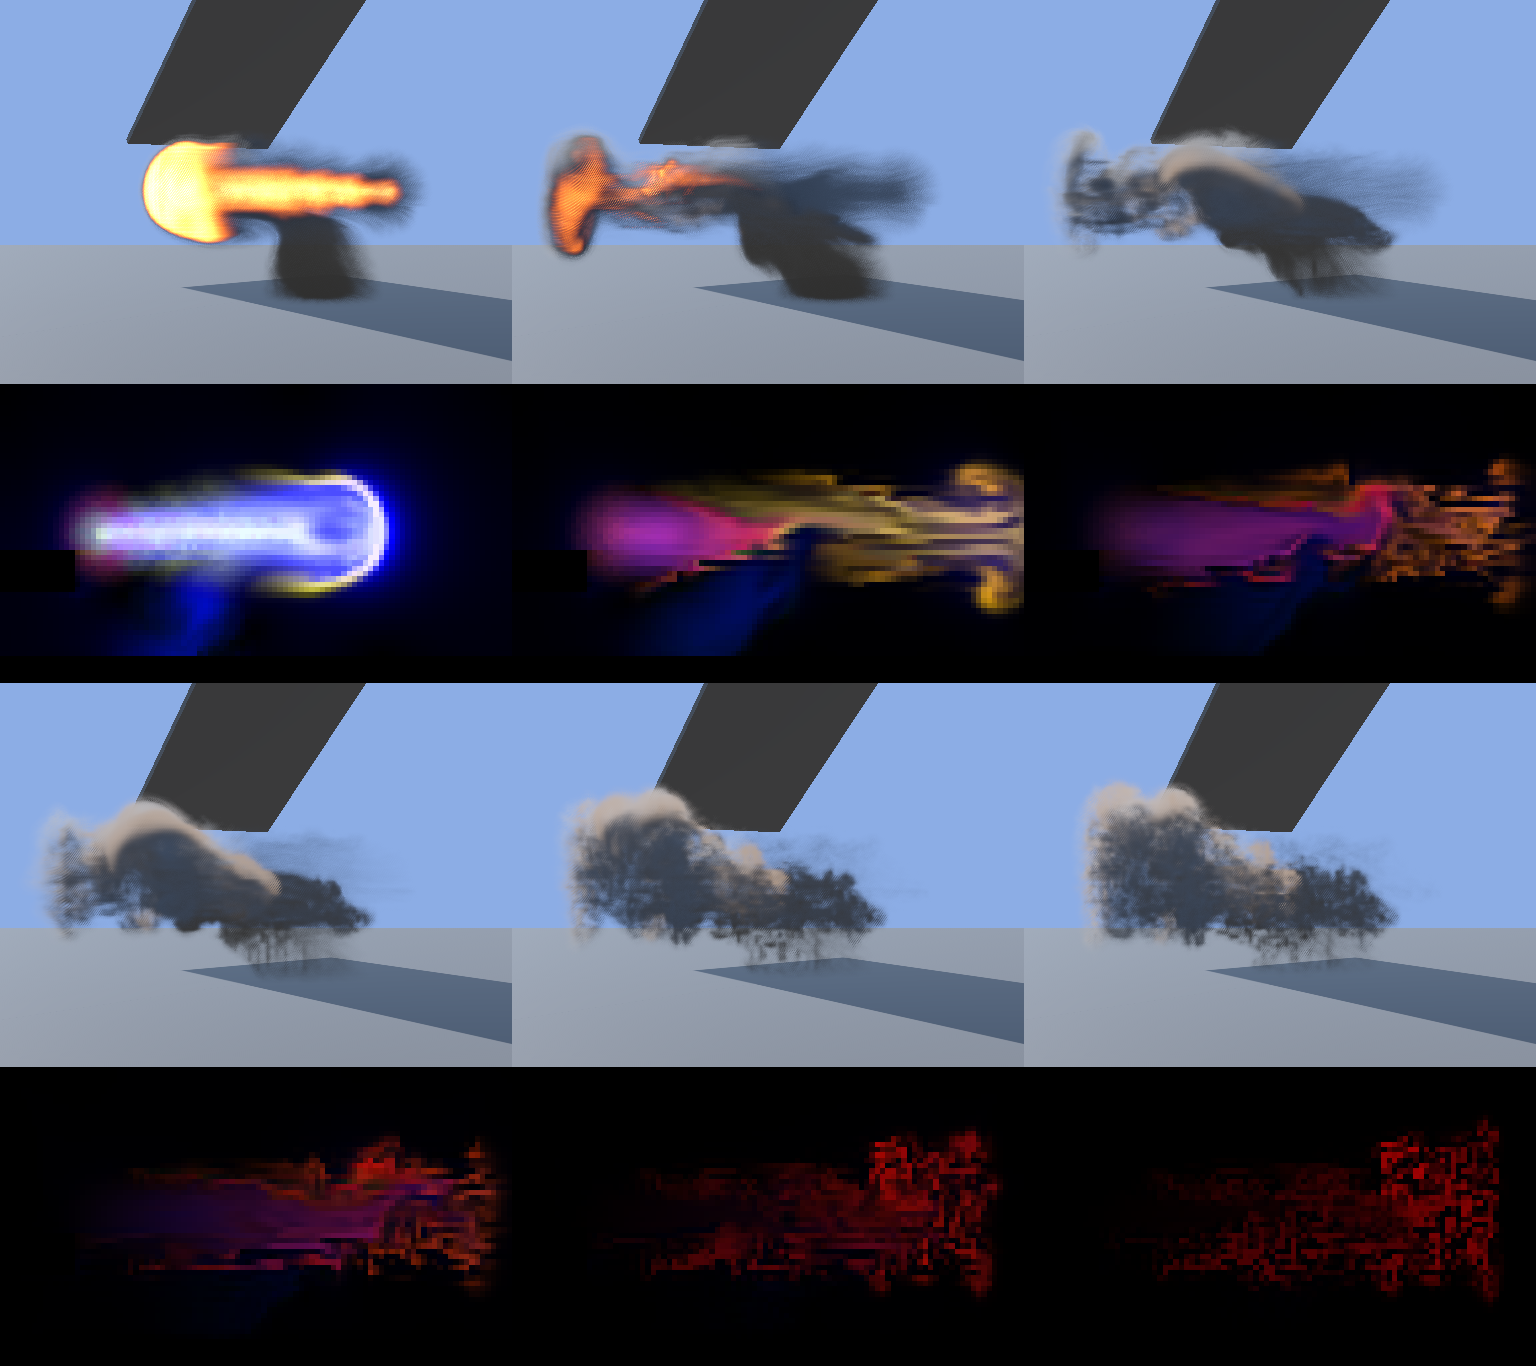
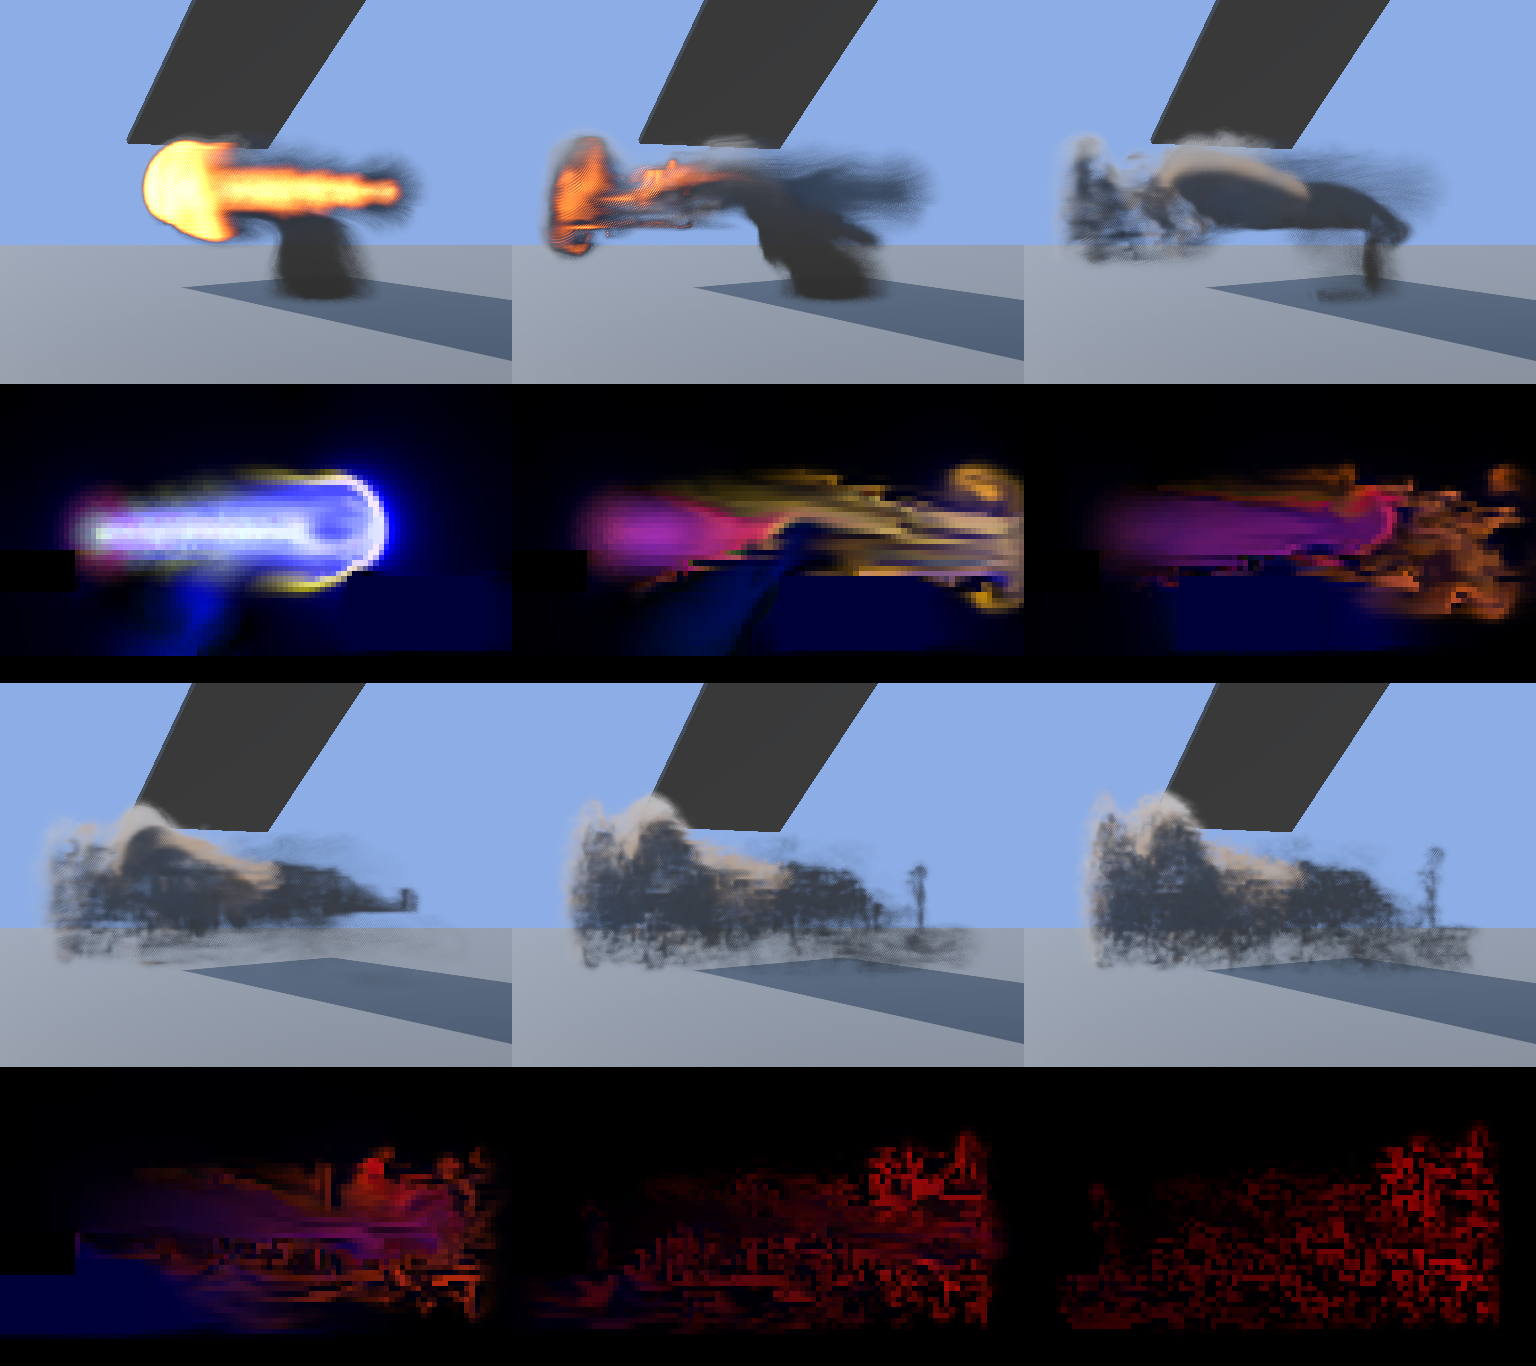
Dev: moving vehicles push the fluid smoke (solid velocity in the solver; wind-relative); push test

diff --git a/Armor Mod/Fluid/FluidSmoke.cs b/Armor Mod/Fluid/FluidSmoke.cs
@@ -78,6 +78,7 @@ namespace ArmorFragments
             public readonly List<Shot> shots = new List<Shot>();
             public PartScript cannonPart;    // its own colliders do not block its smoke
             public bool hasGround;
+            public Vector3 gridVelocity;     // the wind that carries the box (world m/s): things that stand still move against it
             public Vector3 groundPoint, groundNormal;
         }
 
@@ -257,6 +258,7 @@ namespace ArmorFragments
                         // Gravity in the box's axes; the blast slows fast, then the smoke drifts.
                         c.sim.Params.buoyDir = Quaternion.Inverse(c.rotation) * Vector3.up;
                         c.sim.Params.drag = c.age < 0.3f ? 7f : 1.5f;
+                        if (wind != null) c.gridVelocity = wind.QueryWindVelocity(c.origin + c.rotation * (c.extent * 0.5f));
                         c.sim.SetObstacles(Obstacles(c));
 
                         bool violent = RecentShot(c);
@@ -273,8 +275,7 @@ namespace ArmorFragments
                         // The wind carries the whole box.
                         if (wind != null)
                         {
-                            Vector3 center = c.origin + c.rotation * (c.extent * 0.5f);
-                            c.origin += wind.QueryWindVelocity(center) * frame;
+                            c.origin += c.gridVelocity * frame;
                             Place(c);
                         }
                     }
@@ -445,6 +446,7 @@ namespace ArmorFragments
             ShapeBuffer.Clear();
             Matrix4x4 gridToWorld = Matrix4x4.TRS(c.origin, c.rotation, Vector3.one);
             Vector3 center = c.origin + c.rotation * (c.extent * 0.5f);
+            Quaternion toGrid = Quaternion.Inverse(c.rotation);
 
             if (c.hasGround)
             {
@@ -452,7 +454,8 @@ namespace ArmorFragments
                 if (height < c.extent.magnitude * 0.5f)
                 {
                     Matrix4x4 plane = Matrix4x4.TRS(c.groundPoint, Quaternion.FromToRotation(Vector3.up, c.groundNormal), Vector3.one);
-                    ShapeBuffer.Add(new FluidSim.Shape { toLocal = plane.inverse * gridToWorld, half = Vector3.one, kind = 2 });
+                    // The ground stands still in the world, so it slides under the box at the wind's speed.
+                    ShapeBuffer.Add(FluidSim.Shape.Make(plane.inverse * gridToWorld, Vector3.one, 2, toGrid * (-c.gridVelocity), Vector3.zero, Vector3.zero));
                 }
             }
 
@@ -465,14 +468,15 @@ namespace ArmorFragments
                 if (part == null || part == c.cannonPart) continue;     // only vehicles; the cannon that fired does not block itself
                 if (col.GetComponentInParent<CannonProjectileScript>() != null) continue;
                 FluidSim.Shape shape;
-                if (ShapeOf(col, gridToWorld, out shape)) ShapeBuffer.Add(shape);
+                if (ShapeOf(col, part, c, gridToWorld, toGrid, out shape)) ShapeBuffer.Add(shape);
             }
             return ShapeBuffer;
         }
 
-        private static bool ShapeOf(Collider col, Matrix4x4 gridToWorld, out FluidSim.Shape shape)
+        private static bool ShapeOf(Collider col, PartScript part, Cloud c, Matrix4x4 gridToWorld, Quaternion toGrid, out FluidSim.Shape shape)
         {
             shape = new FluidSim.Shape();
+            Vector3 half; int kind;
             Matrix4x4 ltw = col.transform.localToWorldMatrix;
             Matrix4x4 m;
             BoxCollider box = col as BoxCollider;
@@ -482,33 +486,44 @@ namespace ArmorFragments
             if (box != null)
             {
                 m = ltw * Matrix4x4.TRS(box.center, Quaternion.identity, Vector3.one);
-                shape.half = box.size * 0.5f; shape.kind = 0;
+                half = box.size * 0.5f; kind = 0;
             }
             else if (sphere != null)
             {
                 m = ltw * Matrix4x4.TRS(sphere.center, Quaternion.identity, Vector3.one);
-                shape.half = Vector3.one * sphere.radius; shape.kind = 1;
+                half = Vector3.one * sphere.radius; kind = 1;
             }
             else if (capsule != null)
             {
                 m = ltw * Matrix4x4.TRS(capsule.center, Quaternion.identity, Vector3.one);
                 float r = capsule.radius, h = Mathf.Max(capsule.height * 0.5f, r);
-                shape.half = capsule.direction == 0 ? new Vector3(h, r, r) : (capsule.direction == 1 ? new Vector3(r, h, r) : new Vector3(r, r, h));
-                shape.kind = 0;
+                half = capsule.direction == 0 ? new Vector3(h, r, r) : (capsule.direction == 1 ? new Vector3(r, h, r) : new Vector3(r, r, h));
+                kind = 0;
             }
             else if (mesh != null && mesh.sharedMesh != null)
             {
                 Bounds b = mesh.sharedMesh.bounds;      // the part's own box, turned with the part: tight enough for a part
                 m = ltw * Matrix4x4.TRS(b.center, Quaternion.identity, Vector3.one);
-                shape.half = b.extents; shape.kind = 0;
+                half = b.extents; kind = 0;
             }
             else
             {
                 Bounds b = col.bounds;
                 m = Matrix4x4.TRS(b.center, Quaternion.identity, Vector3.one);
-                shape.half = b.extents; shape.kind = 0;
+                half = b.extents; kind = 0;
             }
-            shape.toLocal = m.inverse * gridToWorld;
+
+            // How the part moves: its velocity at the middle of the shape and its spin, in the box's space, relative to the box (which drifts
+            // with the wind). The tank driving toward the gas pushes it; one standing still makes the wind blow around it.
+            Vector3 centerWorld = m.GetColumn(3);
+            Vector3 velocity = -c.gridVelocity, spin = Vector3.zero;
+            Assets.Scripts.Craft.IRigidBody body = part.Body != null ? part.Body.RigidBody : null;
+            if (body != null && !body.IsDead)
+            {
+                velocity += body.GetPointVelocity(centerWorld);
+                spin = body.angularVelocity;
+            }
+            shape = FluidSim.Shape.Make(m.inverse * gridToWorld, half, kind, toGrid * velocity, toGrid * spin, toGrid * (centerWorld - c.origin));
             return true;
         }
 

diff --git a/Armor Mod/Fluid/FluidSim.cs b/Armor Mod/Fluid/FluidSim.cs
@@ -31,12 +31,21 @@ namespace ArmorFragments.Fluid
 
         // A solid thing, given by the matrix that takes a point of the box's space into the shape's own space.
         // kind 0: a box (|local| <= half); kind 1: an ellipsoid (|local / half.x| <= 1); kind 2: a half-space (local.y <= 0).
+        // It may move: `vel` is its velocity at `center` and `omega` its spin, both in the box's space (relative to the box, which itself
+        // drifts with the wind), so the gas next to it is pushed along with it.
         public struct Shape
         {
             public Matrix4x4 toLocal;
-            public Vector3 half;
-            public int kind;
-            public const int Stride = 20 * 4;
+            public Vector4 halfKind;   // xyz = half sizes, w = kind
+            public Vector4 vel;
+            public Vector4 omega;
+            public Vector4 center;
+            public const int Stride = 32 * 4;
+
+            public static Shape Make(Matrix4x4 toLocal, Vector3 half, int kind, Vector3 vel, Vector3 omega, Vector3 center)
+            {
+                return new Shape { toLocal = toLocal, halfKind = new Vector4(half.x, half.y, half.z, kind), vel = vel, omega = omega, center = center };
+            }
         }
 
         public struct Settings
@@ -74,7 +83,7 @@ namespace ArmorFragments.Fluid
 
         private readonly ComputeShader cs;
         private readonly List<Level> levels = new List<Level>();
-        private RenderTexture velA, velB, scalA, scalB, hat, tilde, vort, phiA, phiB, phiTmp;
+        private RenderTexture velA, velB, scalA, scalB, hat, tilde, vort, phiA, phiB, phiTmp, solidVel;
         private ComputeBuffer blobBuffer, shapeBuffer;
         private int shapeCapacity;
         private bool hadShapes;
@@ -120,6 +129,7 @@ namespace ArmorFragments.Fluid
             vort = Make(nx, ny, nz, RenderTextureFormat.ARGBFloat);
             phiA = Make(nx, ny, nz, RenderTextureFormat.ARGBFloat); phiB = Make(nx, ny, nz, RenderTextureFormat.ARGBFloat);
             phiTmp = Make(nx, ny, nz, RenderTextureFormat.ARGBFloat);
+            solidVel = Make(nx, ny, nz, RenderTextureFormat.ARGBFloat);
 
             // Multigrid levels: halve every dimension while they stay even and at least 8 cells.
             Vector3Int d = Dims;
@@ -163,7 +173,7 @@ namespace ArmorFragments.Fluid
         {
             if (disposed) return;
             disposed = true;
-            foreach (RenderTexture rt in new[] { velA, velB, scalA, scalB, hat, tilde, vort, phiA, phiB, phiTmp })
+            foreach (RenderTexture rt in new[] { velA, velB, scalA, scalB, hat, tilde, vort, phiA, phiB, phiTmp, solidVel })
                 if (rt != null) rt.Release();
             foreach (Level L in levels) { L.p.Release(); L.rhs.Release(); L.res.Release(); L.solid.Release(); }
             if (shapeBuffer != null) shapeBuffer.Release();
@@ -222,6 +232,7 @@ namespace ArmorFragments.Fluid
             cs.SetFloat("Hh", Cell);
             cs.SetInt("ShapeCount", count);
             cs.SetTexture(kObstacles, "SolidOut", levels[0].solid);
+            cs.SetTexture(kObstacles, "SolidVelOut", solidVel);
             Dispatch(kObstacles, Dims);
             for (int i = 1; i < levels.Count; i++)
             {
@@ -303,7 +314,7 @@ namespace ArmorFragments.Fluid
             cs.SetFloat("Cool", Mathf.Exp(-s.cool * dt));
             cs.SetFloat("Diss", Mathf.Exp(-s.dissipate * dt));
             cs.SetFloat("Drag", Mathf.Exp(-s.drag * dt));
-            cs.SetTexture(kDamp, "Solid", levels[0].solid);
+            cs.SetTexture(kDamp, "Solid", levels[0].solid); cs.SetTexture(kDamp, "SolidVel", solidVel);
             cs.SetTexture(kDamp, "VelIn", velA); cs.SetTexture(kDamp, "ScalIn", scalA);
             cs.SetTexture(kDamp, "VelOut", velB); cs.SetTexture(kDamp, "ScalOut", scalB);
             Dispatch(kDamp, Dims);
@@ -342,11 +353,11 @@ namespace ArmorFragments.Fluid
         private void Project(int cycles)
         {
             Level L0 = levels[0];
-            cs.SetTexture(kDivergence, "Solid", L0.solid);
+            cs.SetTexture(kDivergence, "Solid", L0.solid); cs.SetTexture(kDivergence, "SolidVel", solidVel);
             cs.SetTexture(kDivergence, "VelIn", velA); cs.SetTexture(kDivergence, "RhsOut", L0.rhs);
             Dispatch(kDivergence, Dims);
             for (int i = 0; i < cycles; i++) VCycle(0);
-            cs.SetTexture(kSubGrad, "Solid", L0.solid);
+            cs.SetTexture(kSubGrad, "Solid", L0.solid); cs.SetTexture(kSubGrad, "SolidVel", solidVel);
             cs.SetTexture(kSubGrad, "VelIn", velA); cs.SetTexture(kSubGrad, "PIn", L0.p); cs.SetTexture(kSubGrad, "VelOut", velB);
             Dispatch(kSubGrad, Dims);
             Swap(ref velA, ref velB);

diff --git a/claude.md b/claude.md
@@ -917,9 +917,9 @@ Pedido do usuário: tirar a opção "Both" (ambos = Ground e Air acesos juntos) 
 - **Caminho:** cada tiro de canhão (`PlayMuzzleFlash`, vale para canhões de outros jogadores) chama `FluidSmoke.OnShot` (`Fluid/FluidSmoke.cs`, patch `FluidSmokePatch`). Nasce uma simulação 3D numa caixa orientada ao longo do cano (x = cano, y = para cima o quanto possível). `Fluid/FluidSim.cs` (sem dependência do jogo) dirige o compute shader `Assets/VFX/Fluid/Fluid.compute` (no projeto Unity `C:\Users\lucia\source\repos\ArmorModVFX`, FORA do repositório). O desenho é feito pelo shader `ArmorMod/SmokeVolume` (ray-marching) numa caixa com `Cull Front`. Tudo vem do bundle `armorvfx` (`BepInEx/scripts/armorvfx`, carregado por `VfxBundleTest`: só o compute shader e o material `SmokeVolume`).
 - **Solver (`Fluid.compute`):** estable fluids: flutuação, confinamento de vorticidade, projeção de pressão por multigrid (Gauss-Seidel vermelho-preto, 3 a 4 níveis, bordas ABERTAS: pressão 0 fora da caixa), advecção MacCormack. Campos: `Vel` (xyz), `Scal` (x fumaça, y temperatura 0..1, z poeira), `Phi` (coordenadas de textura carregadas pelo fluxo, duas séries que reiniciam a cada 0,6 s com mistura triangular, para o ruído de detalhe do shader acompanhar a fumaça). Obstáculos: `Obstacles` marca células sólidas a partir de uma lista de formas (caixa, elipsoide, semiplano; matriz do espaço da caixa para o da forma), `MaskRestrict` leva a máscara aos níveis grossos; pressão, divergência, gradiente, advecção e fontes respeitam os sólidos (velocidade 0 dentro, sem fluxo através). Fontes: `AddBlobs` (bolas macias com velocidade, radial, rotacional de ruído, fumaça, calor e poeira).
 - **Custo medido no Unity em Direct3D 11 (a API do jogo; em D3D12 era 10x pior por causa do custo de despacho):** 96x56x56 células = ~1 ms por passo, 72x42x42 = ~0,5 ms, 48x28x28 = ~0,2 ms (RX 7600). Níveis de qualidade em `FluidSmoke.Levels` (alta, média, baixa; passos do ray-marching 32/24/16); automático pelo tempo de quadro (`Monitor`), por distância (>150 m média, >300 m baixa, >400 m nenhuma), no máximo 3 nuvens; tiro seguinte do mesmo lugar em até 1,2 s se soma à mesma nuvem. Log `[VFXBUNDLE] fluid smoke: ...` a cada 10 s com atividade.
-- **Mundo:** `Obstacles(Cloud)` usa `Physics.OverlapBoxNonAlloc` e converte colisores de peças (caixa exata, esfera/elipsoide, cápsula como caixa, malha pela caixa local da malha) em formas; o canhão que atirou não bloqueia a própria fumaça; o chão vem de um raio para baixo (primeira coisa que não é peça de veículo) e vira semiplano; a poeira (`Scal.z`, cor marrom no shader) sai onde o sopro encontra o chão (menos se o cano está alto). O vento (`WindQueryManager.QueryWindVelocity` no centro) arrasta a caixa inteira. NÃO tratado: velocidade dos obstáculos (um veículo andando não empurra o gás), chão em movimento, mar.
+- **Mundo:** `Obstacles(Cloud)` usa `Physics.OverlapBoxNonAlloc` e converte colisores de peças (caixa exata, esfera/elipsoide, cápsula como caixa, malha pela caixa local da malha) em formas; o canhão que atirou não bloqueia a própria fumaça; o chão vem de um raio para baixo (primeira coisa que não é peça de veículo) e vira semiplano; a poeira (`Scal.z`, cor marrom no shader) sai onde o sopro encontra o chão (menos se o cano está alto). O vento (`WindQueryManager.QueryWindVelocity` no centro) arrasta a caixa inteira. Obstáculos em movimento: cada forma leva a velocidade do corpo (`IRigidBody.GetPointVelocity` no meio da forma e `angularVelocity`) no espaço da caixa, relativa à caixa (que anda com o vento: o que está parado no mundo, como o chão e um veículo parado, desliza sob a caixa à velocidade do vento e faz o vento contornar), `Obstacles` grava a velocidade do sólido em `SolidVel` por célula e a divergência, o gradiente e o `Damp` a usam: um veículo que anda em direção ao gás o empurra (teste numérico `FluidPreview.PushTest`: fumaça parada em x = 6,5 m, casco a 9 m/s contra ela: centro em 4,95 m após 0,8 s; com o casco parado, 6,50 m). Limite: a fumaça que fica dentro das células que o casco passa a ocupar é apagada (perdeu 18% da massa no teste), não deslocada; a pressão é colocalizada, então o gás junto ao casco só segue a velocidade dele aproximadamente. NÃO tratado: aceleração dos corpos, mar.
 - **Iluminação:** o shader lê o mapa de sombras do sol do jogo a cada passo do raio (`GetMainLight(TransformWorldToShadowCoord(pW), pW, 1)`, keywords `_MAIN_LIGHT_SHADOWS*` e `_SHADOWS_SOFT*`; `#define _SURFACE_TYPE_TRANSPARENT` para usar as cascatas mesmo com sombras em espaço de tela), a cor e a intensidade do sol, o SH do ambiente e a auto-sombra pelo próprio volume. Fumaça à sombra de um prédio ou veículo escurece. Luzes adicionais (pontuais, lanternas) NÃO entram ainda.
 - **Teste fora do jogo (principal ferramenta de iteração):** `FluidPreview.cs` no projeto Unity (menu de execução `-executeMethod FluidPreview.Run`, com GPU: SEM `-nographics`; `-force-d3d11` para imitar o jogo) simula um tiro, desenha com o shader real e grava `%TEMP%\fluid-preview\sheet.png` (imagens + cortes: vermelho = fumaça, verde = calor, azul = velocidade), `shadow_ab.png` (a mesma nuvem com e sem um teto que faz sombra) e mede o custo por nível. Antes de rodar: copiar `Armor Mod/Fluid/FluidSim.cs` para `Assets/Editor/Mirrored/FluidSim.cs` do projeto Unity (o arquivo do mod é a fonte). Cópias das imagens em `tools/vfx/previews/`.
 - **Para refazer o bundle:** no projeto Unity, `Unity.exe -batchmode -nographics -quit -projectPath ... -executeMethod BuildArmorBundle.Build` (o Unity do projeto não pode estar aberto), copiar `AssetBundles/armorvfx` para `BepInEx/scripts`. O bundle só tem o compute shader e o material do volume; os efeitos antigos (sprites, nuvem pré-calculada, volume por partículas) foram removidos do mod e saíram do bundle (os assets continuam no projeto Unity, sem uso).
 - **Ferramentas Python (`tools/vfx/`, opcionais):** `smoke_cl.py` + `bake_cl.py` (simulador OpenCL e geração de flipbooks de 6 direções na GPU; `pyopencl` num venv na pasta temporária da sessão, NÃO instalado no Python do usuário), `smoke_sim.py`/`bake_flipbook.py` (a versão com PyTorch no processador, lenta), `make_smoke_maps.py`. Os flipbooks foram descartados como efeito final; ficam como referência.
-- **Pendências:** testar no jogo as sombras, o chão, a poeira e os obstáculos (e o custo do ray-marching com o mapa de sombras); luzes adicionais; velocidade dos obstáculos; poeira com a cor do chão; HE, fumaça de motor e de veículo danificado (precisam de emissão contínua e de caixa que segue o veículo); configurações no `.cfg`; texto do `PATCH_NOTES.md` e passagem pelo `make-release.py` (hoje tudo está entre `RELEASE-STRIP`).
+- **Pendências:** testar no jogo as sombras, o chão, a poeira e os obstáculos (e o custo do ray-marching com o mapa de sombras); luzes adicionais; poeira com a cor do chão; testar no jogo o empurrão de um veículo em movimento; HE, fumaça de motor e de veículo danificado (precisam de emissão contínua e de caixa que segue o veículo); configurações no `.cfg`; texto do `PATCH_NOTES.md` e passagem pelo `make-release.py` (hoje tudo está entre `RELEASE-STRIP`).
